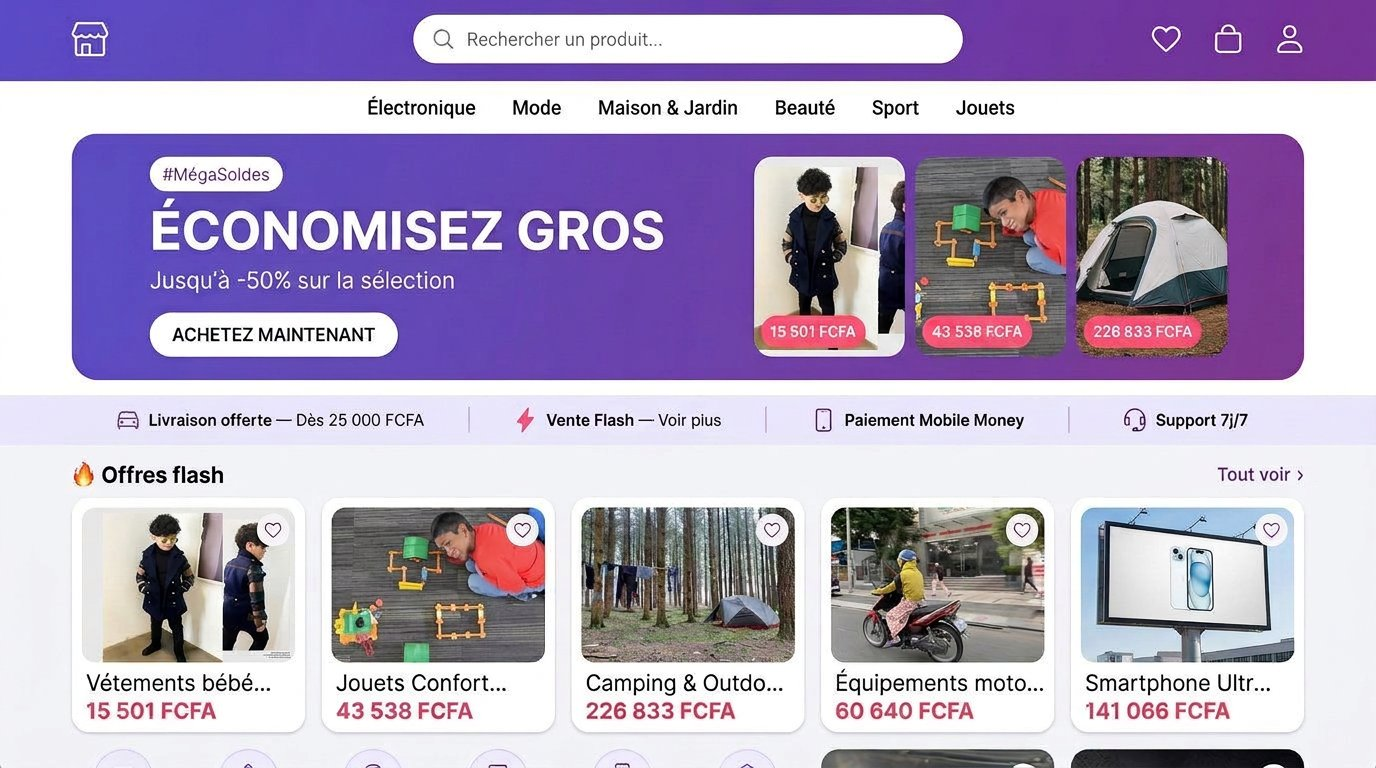
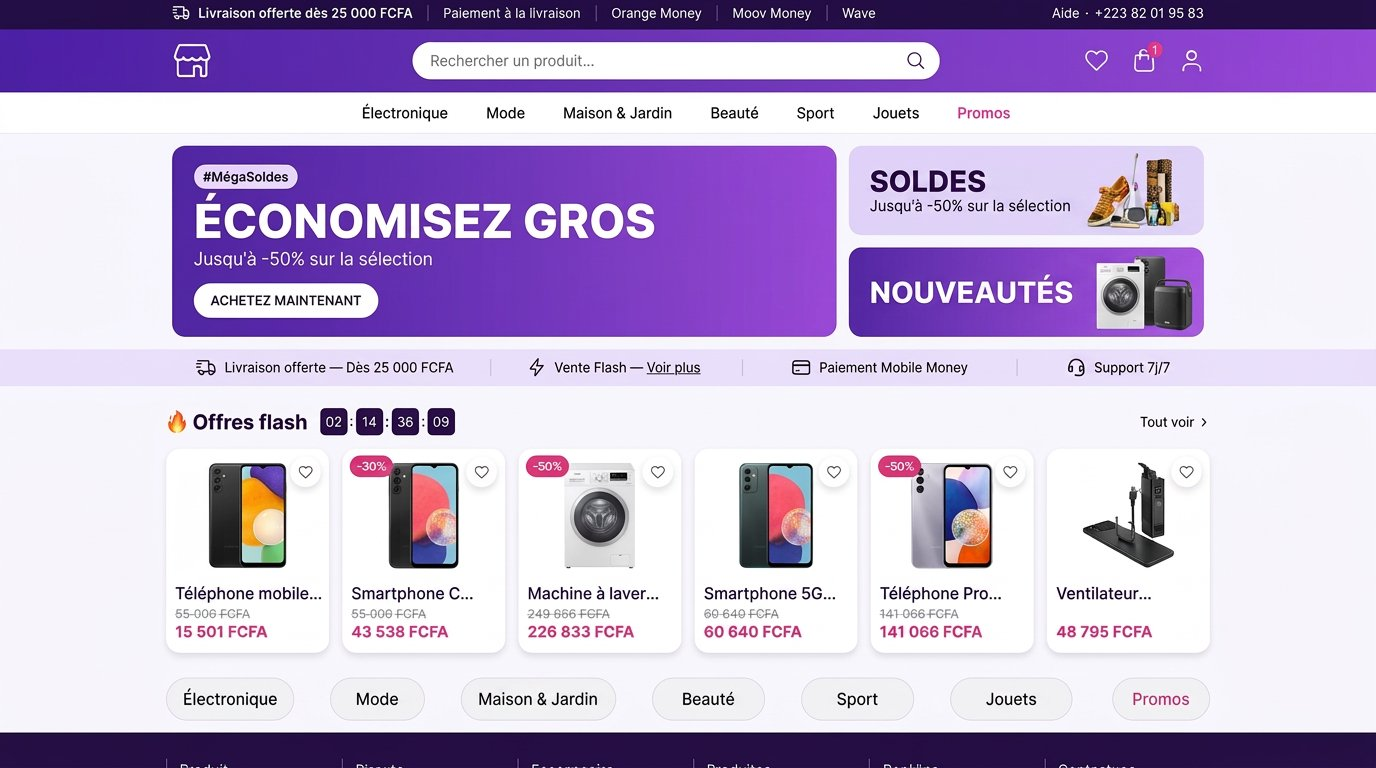
feat: site web E-commerce en vraie version desktop (accueil + fiche produit)
Remplace la vitrine web qui n'était qu'une appli mobile élargie : la mise
en page exploite maintenant la largeur d'un écran desktop.

Accueil (ecommerce-web-ultra.jpg) :
- barre promo : Livraison offerte / Paiement à la livraison / Orange Money
  / Moov Money / Wave / Aide + téléphone
- header violet + recherche + 2 bannières secondaires (SOLDES, NOUVEAUTÉS)
- hero "#MégaSoldes" / "ÉCONOMISEZ GROS" / "ACHETEZ MAINTENANT"
- compte à rebours "Offres flash" 02 14 36 09 + "Tout voir ›"
- 6 cartes produits (photos, badges -30%/-50%, prix barrés, prix roses)
- rangée de catégories + début de footer

Fiche produit (ecommerce-web-produit-ultra.jpg) :
- fil d'Ariane, galerie + 4 vignettes, titre, étoiles, SKU
- prix rose 48 795 FCFA, "En stock (218)", sélecteur de quantité
- "Ajouter au panier" / "Acheter maintenant" / favori
- bloc livraison-paiement (Bamako, Orange Money/Moov Money, retour 7j)
- onglets Description / Caractéristiques / Avis + "Produits similaires"

Libellés produits corrigés (plus de charabia IA). Carte "E-commerce —
Site + App" : Combiné → Site Web → Fiche produit → Dashboard.

diff --git a/index.html b/index.html
@@ -150,6 +150,7 @@ section{padding:40px 5%}
         <div class="carousel-track">
           <div class="carousel-slide"><img src="img/projects/ecommerce-ultra-pc-mobile-combined.jpg" alt="E-commerce — site web et application mobile" decoding="async" onerror="this.src='img/projects/ecommerce.jpg'"><span class="badge-img green">PC + Mobile</span></div>
           <div class="carousel-slide"><img src="img/projects/ecommerce-web-ultra.jpg" alt="E-commerce — site web desktop" loading="lazy" decoding="async" onerror="this.src='img/projects/ecommerce.jpg'"><span class="badge-img green">Site Web</span></div>
+          <div class="carousel-slide"><img src="img/projects/ecommerce-web-produit-ultra.jpg" alt="E-commerce — fiche produit desktop" loading="lazy" decoding="async" onerror="this.src='img/projects/ecommerce-web-ultra.jpg'"><span class="badge-img green">Fiche produit</span></div>
           <div class="carousel-slide"><img src="img/projects/ecommerce-pc-ultra-2.jpg" alt="E-commerce — dashboard vendeur" loading="lazy" decoding="async" onerror="this.src='img/projects/ecommerce.jpg'"><span class="badge-img green">Dashboard vendeur</span></div>
         </div>
         <div class="carousel-dots"></div>
